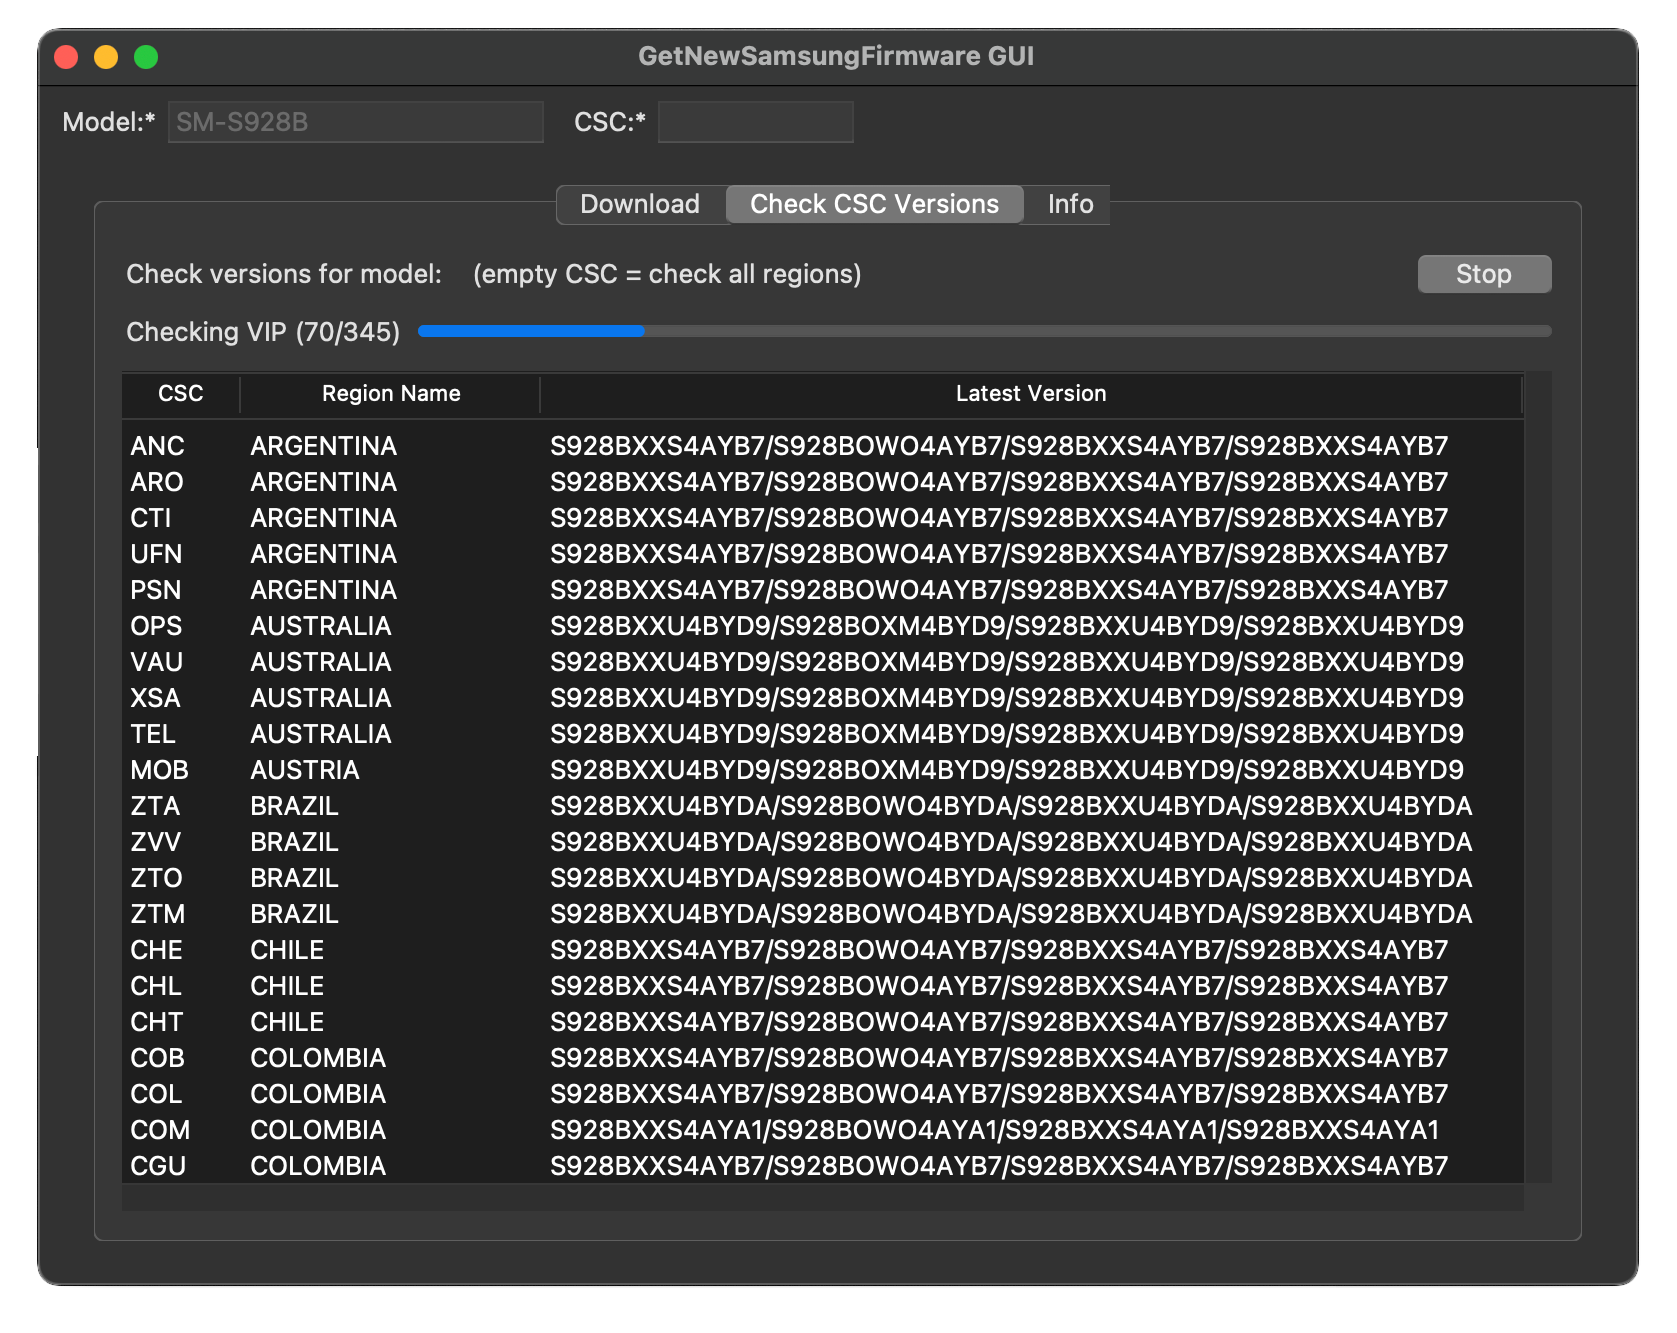
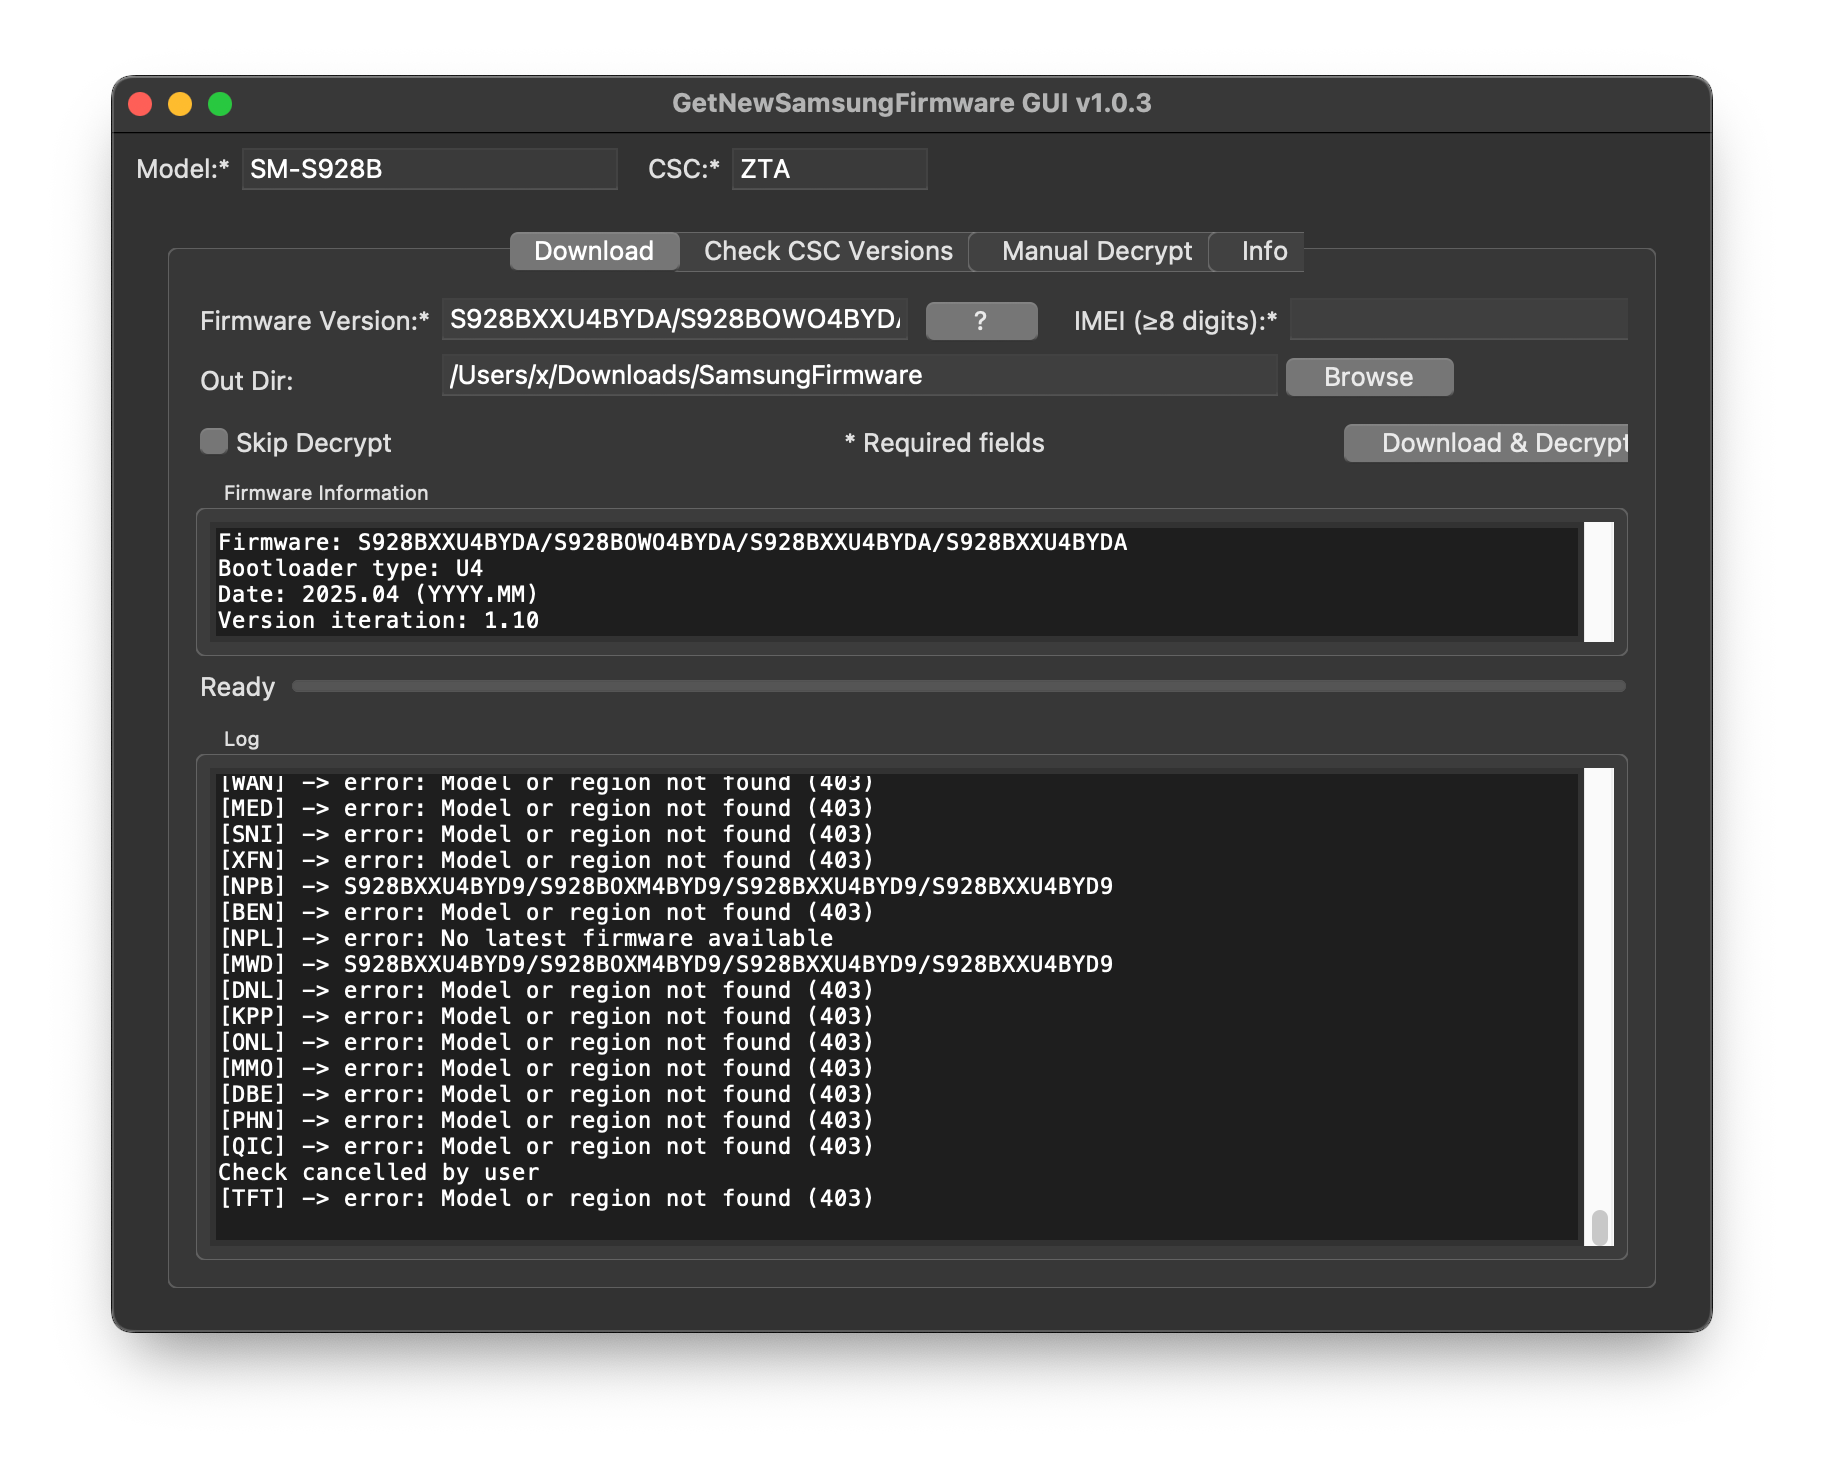
update GUI screenshot and download links

diff --git a/README.md b/README.md
@@ -1,5 +1,7 @@
 # GNSF – Get New Samsung Firmware
 
+![GNSF Logo](AppIcons/128.png)
+
 Hey there! 👋  
 Ever needed to grab the latest Samsung firmware for **Odin** and decrypt it without jumping through hoops? That’s exactly why I built **GNSF**. It’s a simple CLI tool that helps you:
 
@@ -10,6 +12,12 @@ Ever needed to grab the latest Samsung firmware for **Odin** and decrypt it with
 All in one go.
 
 Project URL: https://github.com/keklick1337/gnsf
+
+## Ready-to-use Applications
+
+| Platform | GUI Version | CLI Version |
+|----------|-------------|-------------|
+| Windows x64 | [![Windows - GUI version](https://img.shields.io/static/v1?label=Windows&message=GUI+version&color=2ea44f)](https://github.com/keklick1337/gnsf/releases/latest/download/windows_x64_gnsf-GUI.exe) | [![Windows - CLI version](https://img.shields.io/static/v1?label=Windows&message=CLI+version&color=blue)](https://github.com/keklick1337/gnsf/releases/latest/download/windows_x64_gnsf.exe) |
 
 ---
 
